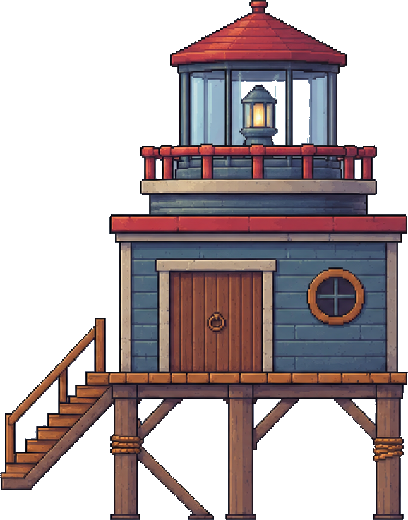
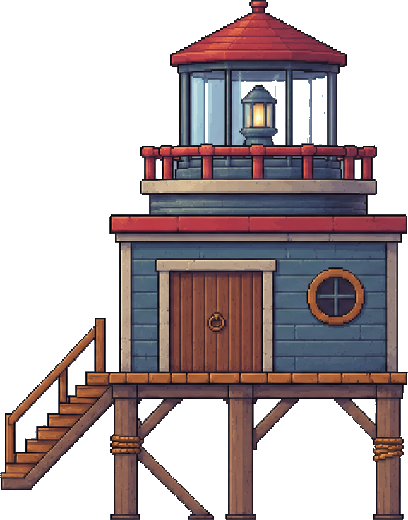
The help tab was on top of the bag, and Otto's own house had a halo
THE HOUSE. house_body -- the most-looked-at sprite in the game -- carried a
pale grey band around its door surround and under its eaves. It survived
the last sweep because punch_interior's thickness gate wanted a 5x5 solid
core before it would call a blob background, and that band is three or four
pixels wide. So is the triangle inside the shack's lamp bracket. core=1
(a 3x3 core) is the default now, which is the right size for architecture,
and house_body, nhouse_light and nhouse_shack are re-punched.

I checked the rest of the complaint rather than assuming: the neighbour
houses' OUTER edges are clean (their boundary pixels are the artwork's own
dark outline, sampled and counted), and the grey "fill" in the shack's
fishing net is not background at all -- the net region measures (72,56,64)
and friends, 130+ away from every studio key. It is painted that way.

THE HELP TAB WAS ON TOP OF THE BAG BUTTON. The rail runs y 40..62 with its
last button starting at x 452; the help pad was 454..474 at y 24..42, so
its bottom two rows sat inside the bag button and a thumb aimed at the bag
opened the field guide. Found by walking every touch pad against every
other and printing the overlaps. It sits left of the rail now, on the
rail's own line, clear of all three -- and the same sweep confirms the
deck's [E] prompt and the action it fires agree at all 285 positions along
the pier, which is the other half of "the hitbox is a little bugged".
[…]

Changed region(s): [[0.7647, 0.1538, 0.8235, 0.2769], [0.5, 0.1538, 0.5294, 0.2769]]

diff --git a/js/util.js b/js/util.js
@@ -241,6 +241,102 @@ function uiPanel(ctx, x, y, w, h, alpha = 0.92, light = false) {
   ctx.restore();
 }
 
+// ---- FX: one recycled pool of pixel particles ------------------------------
+//
+// Every system in this game that wanted a sparkle grew its own array, its own
+// update and its own draw -- and most of the moments that deserve one still have
+// nothing: handing in an errand, learning a skill, finishing a craft. This is the
+// shared one. It is a FIXED pool, allocated once, so a burst costs no garbage
+// however many go off, and it draws with fillRect on the pixel grid: no arcs, no
+// gradients, no anti-aliasing, nothing that would read as web chrome.
+const FX = {
+  MAX: 96,
+  p: null,
+  _n: 0,
+
+  _ensure() {
+    if (this.p) return;
+    this.p = new Array(this.MAX);
+    for (let i = 0; i < this.MAX; i++) {
+      this.p[i] = { t: 0, life: 1, x: 0, y: 0, vx: 0, vy: 0, g: 0, s: 1, col: '#fff', star: false };
+    }
+  },
+  _slot() {
+    this._ensure();
+    for (let i = 0; i < this.MAX; i++) if (this.p[i].t <= 0) return this.p[i];
+    return null;                      // full: drop it, never grow the pool
+  },
+
+  // A burst. `spread` is the speed envelope, `g` the gravity (0 floats, +40
+  // falls), `star` draws a four-point twinkle instead of a square.
+  burst(x, y, n, opts = {}) {
+    const { col = '#ffe66e', spread = 34, g = 26, life = 0.6, s = 1, star = false, up = 0 } = opts;
+    for (let i = 0; i < n; i++) {
+      const q = this._slot();
+      if (!q) return;
+      const a2 = rand(0, TAU);
+      const sp = rand(spread * 0.35, spread);
+      q.t = q.life = life * rand(0.7, 1.25);
+      q.x = x + rand(-1.5, 1.5); q.y = y + rand(-1.5, 1.5);
+      q.vx = Math.cos(a2) * sp;
+      q.vy = Math.sin(a2) * sp - up;
+      q.g = g; q.s = s; q.col = col; q.star = star;
+    }
+  },
+
+  // A ring: particles thrown outward on one plane. Splashes, impacts, a bed
+  // settling into the sand.
+  ring(x, y, n, opts = {}) {
+    const { col = '#dff2ff', r = 30, life = 0.5, s = 1, flat = 0.35 } = opts;
+    for (let i = 0; i < n; i++) {
+      const q = this._slot();
+      if (!q) return;
+      const a2 = (i / n) * TAU + rand(-0.2, 0.2);
+      q.t = q.life = life * rand(0.8, 1.15);
+      q.x = x; q.y = y;
+      q.vx = Math.cos(a2) * r;
+      q.vy = Math.sin(a2) * r * flat;
+      q.g = 0; q.s = s; q.col = col; q.star = false;
+    }
+  },
+
+  update(dt) {
+    if (!this.p) return;
+    let live = 0;
+    for (let i = 0; i < this.MAX; i++) {
+      const q = this.p[i];
+      if (q.t <= 0) continue;
+      q.t -= dt;
+      q.x += q.vx * dt;
+      q.y += q.vy * dt;
+      q.vy += q.g * dt;
+      q.vx *= 0.98;
+      live++;
+    }
+    this._n = live;
+  },
+
+  draw(ctx) {
+    if (!this.p || !this._n) return;
+    for (let i = 0; i < this.MAX; i++) {
+      const q = this.p[i];
+      if (q.t <= 0) continue;
+      const k = q.t / q.life;
+      ctx.globalAlpha = k > 0.7 ? 1 : k / 0.7;
+      ctx.fillStyle = q.col;
+      const sz = q.s * (k > 0.5 ? 1 : 0.6);
+      const x = Math.round(q.x / APIX) * APIX, y = Math.round(q.y / APIX) * APIX;
+      if (q.star) {                   // a four-point twinkle, five rects
+        ctx.fillRect(x - sz, y, sz * 3, sz);
+        ctx.fillRect(x, y - sz, sz, sz * 3);
+      } else {
+        ctx.fillRect(x, y, sz, sz);
+      }
+    }
+    ctx.globalAlpha = 1;
+  },
+};
+
 // ---- PANEL CHROME ---------------------------------------------------------
 //
 // uiPanel draws the FRAME. These draw the things that go on it, and they exist

diff --git a/js/npc.js b/js/npc.js
@@ -996,10 +996,23 @@ const NPCs = {
       const pool = walking ? n.frames.walk : (emoting ? n.frames.emote : n.frames.idle);
       const fi = walking ? Math.floor(n.walkT || 0) % pool.length
         : (emoting ? Math.floor(ph * 2.2) % pool.length : Math.floor(t * 2 + i) % pool.length);
-      // a walk bounces off the boards; an idle breathes
+      // A WALK BOUNCES OFF THE BOARDS; AN IDLE BREATHES.
+      //
+      // Four drawn frames is a thin cycle, and "add more frames" is not something
+      // a sheet of sixteen can be talked into. What it CAN do is carry the motion
+      // between them: a step has a rise and a fall, the body squashes as the foot
+      // lands and stretches as it leaves, and the whole animal leans into the
+      // direction of travel. Those three, driven off the same walkT the frame
+      // index uses, put a beat between every pair of frames -- so four frames
+      // read as eight and the stride lands instead of sliding.
+      const wph = (n.walkT || 0) * Math.PI * 0.5;
       const bob = walking
-        ? Math.abs(Math.sin((n.walkT || 0) * Math.PI * 0.5)) * 1.6
+        ? Math.abs(Math.sin(wph)) * 1.7
         : Math.sin(t * 1.6 + i * 2.1) * 0.7 + (emoting ? Math.abs(Math.sin(ph * 5)) * 0.9 : 0);
+      // squash on the down beat, stretch on the up; volume roughly conserved
+      const sq = walking ? 1 - Math.cos(wph * 2) * 0.045 : 1;
+      const sx2 = walking ? 1 + Math.cos(wph * 2) * 0.045 : 1;
+      const lean = walking ? Math.sin(wph) * 0.035 : 0;
 
       c.fillStyle = 'rgba(40,20,10,0.18)';
       c.beginPath();
@@ -1012,9 +1025,20 @@ const NPCs = {
         const sx = Math.round(n.x * DPX) / DPX;
         c.save();
         c.translate(sx, DECK_Y + 0.5 - bob);
+        c.rotate(lean * (n.flip ? -1 : 1));
         if (n.flip) c.scale(-1, 1);
+        c.scale(sx2, sq);
         c.drawImage(img, -ww / 2, -hh, ww, hh);
         c.restore();
+        // and the boards give a little dust back on each footfall, the same way
+        // Otto's do -- it is what makes a walk land on something
+        if (walking && Math.sin(wph) > 0.94) {
+          c.fillStyle = 'rgba(226,206,168,0.5)';
+          const d0 = (n.flip ? 1 : -1) * (2 + (Math.floor(n.walkT || 0) % 2));
+          c.fillRect(sx + d0 - 1, DECK_Y - 1.5, 3, 1.5);
+          c.fillStyle = 'rgba(226,206,168,0.25)';
+          c.fillRect(sx + d0 * 2 - 1, DECK_Y - 3, 2, 1);
+        }
       }
 
       // Over their head, in priority order: an ERRAND mark ('!' they are owed a

diff --git a/js/main.js b/js/main.js
@@ -115,7 +115,12 @@ const TouchUI = {
       // top one got hit by accident every time. The crafting button is the
       // anvil on the top rail (js/uibar.js), which is where the bag and the
       // skills already live. One place for menus, one place for the world.
-      b.push({ x: W - 26, y: 24, w: 20, h: 18, tap: 'KeyH', icon: 'help' });
+      // THE HELP TAB WAS ON TOP OF THE BAG. The rail (js/uibar.js) runs
+      // BX..BX+3*27 at y 40..62 and the last button starts at x 452; this pad was
+      // 454..474 at y 24..42, so its bottom two rows sat inside the bag button
+      // and a thumb aimed at the bag opened the field guide instead. It goes to
+      // the LEFT of the rail, on the rail's own line, clear of all three.
+      b.push({ x: W - 108, y: 42, w: 20, h: 18, tap: 'KeyH', icon: 'help' });
     } else if (sc === DiveScene) {
       b.push({ x: W - 46, y: H - 122, w: 40, h: 40, key: 'KeyW', icon: 'up' });
       b.push({ x: W - 46, y: H - 76, w: 40, h: 40, key: 'KeyS', icon: 'down' });
@@ -976,6 +981,7 @@ function frame(now) {
       typeof Quests !== 'undefined' && !Shop.open && !Bench.open && !Game.helpOpen) {
     Quests.update(dt);
     if (typeof Cine !== 'undefined') Cine.update(dt);
+    if (typeof FX !== 'undefined') FX.update(dt);
     // clicking the chapter banner is the mouse's way into the journal
     if (!Quests.open && !Quests.letter && Input.mouse.clicked && Game._goalRect) {
       const r = Game._goalRect, m = Input.mouse;
@@ -1072,6 +1078,7 @@ function frame(now) {
   if (G && Game.scene !== TitleScene && !cine && typeof Quests !== 'undefined') Quests.draw(ctx);
   // the errand hand-in slip sits above everything but the touch pads: it goes up
   // WHILE the dialogue box is still open, which is the moment it is about
+  if (G && Game.scene !== TitleScene && typeof FX !== 'undefined') FX.draw(ctx);
   if (G && Game.scene !== TitleScene && !cine && typeof Side !== 'undefined') Side.draw(ctx);
   // the cinematic beats go OVER everything but the fade: they are cuts, and a cut
   // is the top of the frame by definition

diff --git a/js/side.js b/js/side.js
@@ -255,6 +255,12 @@ const Side = {
     }
 
     this._syncGoal();
+    // the burst: gold for the coin, green for the goods, thrown up out of the
+    // slip so the payout has a moment instead of just appearing
+    if (typeof FX !== 'undefined') {
+      FX.burst(84, 48, 16, { col: '#ffd45a', spread: 46, g: 62, up: 26, s: 1, star: true, life: 0.75 });
+      FX.burst(84, 48, 10, { col: '#7dffb0', spread: 34, g: 54, up: 18, s: 1, life: 0.6 });
+    }
     this._flash = { name: q.name, money: r.money || 0, items: r.items || null, note: r.note || '', t: 3.0 };
     // a main-quest step gets the cinematic beat as well as the slip
     if (q.branch === 'main' && typeof Quests !== 'undefined' && Quests.complete) Quests.complete(q);

diff --git a/js/craftgate.js b/js/craftgate.js
@@ -715,6 +715,13 @@ const Forge = {
     this._rowCache = {};
     this._bandSig = '';
     if (SND.clank) SND.clank(); else SND.clink();
+    // sparks off the bench: gold, thrown up, falling back. The place a craft
+    // lands had nothing on it at all.
+    if (typeof FX !== 'undefined') {
+      var _br = this._btnRect ? this._btnRect() : { x: this.WX + 12, y: this.WY + 112, w: 90, h: 16 };
+      FX.burst(_br.x + _br.w / 2, _br.y + 4, 14, { col: '#ffd45a', spread: 52, g: 90, up: 30, life: 0.55, star: true });
+      FX.burst(_br.x + _br.w / 2, _br.y + 4, 8, { col: '#ffe6b0', spread: 30, g: 70, up: 16, life: 0.4 });
+    }
     if (SND.thump) SND.thump(0.5);
     Game.save();
     return true;

diff --git a/dev/process-assets.py b/dev/process-assets.py
@@ -99,7 +99,7 @@ def global_key(im, tol=34, bg_col=None):
     return im
 
 
-def punch_interior(im, bg_col, tol=12, edge_tol=24, core=2):
+def punch_interior(im, bg_col, tol=12, edge_tol=24, core=1):
     """Delete background TRAPPED INSIDE the artwork, and only that.
 
     key_bg floods from the border, so it can never reach a pocket the drawing
@@ -128,7 +128,10 @@ def punch_interior(im, bg_col, tol=12, edge_tol=24, core=2):
         is left alone.
       * A THICKNESS GATE. A pocket is an AREA; a plank shadow is a LINE. A blob
         is only punched if it contains a solid (2*core+1) square of its own kind,
-        which a groove of any length never does.
+        which a groove of any length never does. core=1 (a 3x3 core) is the
+        default because 2 was too coarse for real architecture: the pale band
+        around house_body's door surround, and the triangle inside the shack's
+        lamp bracket, are both genuine background and both narrower than 5px.
     """
     im = im.convert('RGBA')
     w, h = im.size
